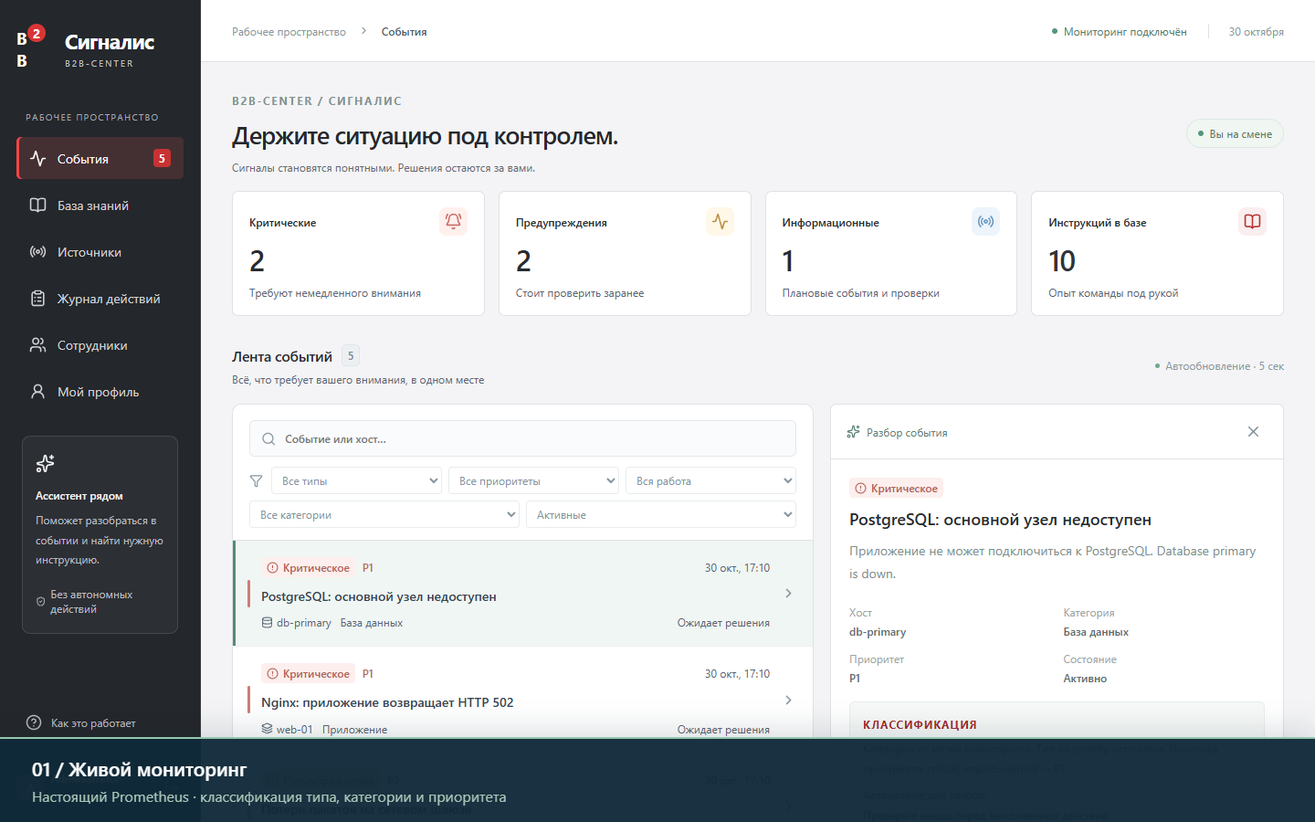
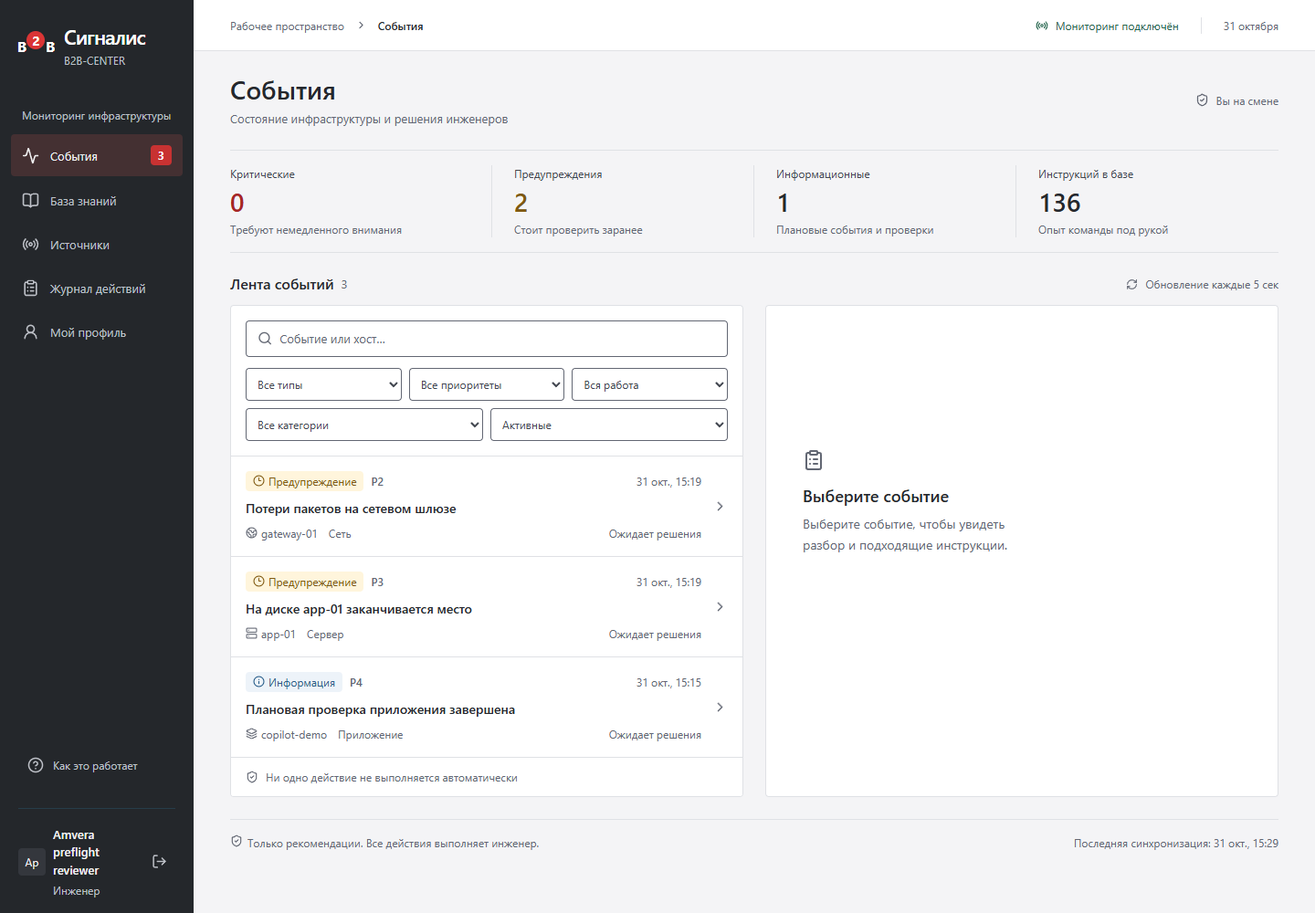
Refresh case 8 submission checklist and verified cloud evidence

diff --git a/docs/submission-verification.md b/docs/submission-verification.md
@@ -1,28 +1,66 @@
-# Проверки комплекта для сдачи — 30 октября 2026
+# Итоговый чек-лист кейса 8 — 31 октября 2026
 
-## Состояние
-Исправлена принудительная SQLite-настройка. Полноценный способ запуска — docker compose.
-Документация жюри: reviewer-guide.md. Публичный Amvera-стенд не прошёл повторную проверку из-за отказа шлюза доступа к cloud.amvera.ru; не выдаётся за подтверждённое рабочее демо.
+## Вердикт
+Можно отправлять на проверку как демонстрационное решение кейса 8. Блокирующая функциональная ошибка в проверенных сценариях не выявлена. Это не промышленный сервис с доказанной устойчивостью под произвольной нагрузкой.
 
-## Выполнено
-- 62 backend-тест прошёл после исправлений, включая PostgreSQL, pgvector, импорт и выбор DATABASE_URL.
-- TypeScript и production-сборка интерфейса проходят.
-- Основной авторский набор: 48 событий, точность тройки severity/category/priority — 100%.
-- Дополнительный review-regression.json: 12 новых формулировок без меток, 100%. Оба набора авторские, не независимый benchmark организаторов.
-- Финальный прогон интерфейса: 10 браузерных тестов прошли в Edge за 52,5 сек на отдельном стенде.
-- Проверена синтаксическая корректность PowerShell-скрипта запуска, sh-скрипта облачных ролей и Compose-конфигурации готовых образов.
-- GitHub CI для первого коммита подготовки 58fcada: success, https://github.com/Roman4588/B2B_8case/actions/runs/41038304275.
-- Чистый checkout F:/B2B_8case-review запущен как отдельный Compose-проект case8-review на 8081 с новыми PostgreSQL/Redis/uploads; использован существующий кэш модели и собранные образы. Это проверка новой БД и чистых исходников, а не полностью холодная загрузка на другом компьютере.
+Код проверенного публичного стенда и GitHub на начало аудита: `05b4ead68c079b5683a1e8cbbfacbdd04f611776`. Последующие изменения этого аудита затрагивают документацию и материалы сдачи, не runtime. Публичный адрес: https://b2b-madaminchyk.mia0.amvera.tech/.
 
-## Ограничения
-Нагрузочный тест и независимый аудит безопасности не выполнены. Тариф и полная конфигурация Amvera не изменялись. Первоначальный аудит readiness-review-2026-10-30.md сохранён как исторический: его замечание об отсутствии исправления в GitHub относится к состоянию до 58fcada.
-## Финальный прогон
-HTTP smoke на отдельном стенде прошёл: вход, настоящее событие с рекомендацией, ручное подтверждение и идемпотентность, PDF на 60 страниц, выход. Приём файла — 0,132 сек; полный цикл ожидания — 22,355 сек. Это локальные измерения, не SLA.
+## Откуда взяты требования
+«Презентация - мероприятие ТПУ.pptx»: слайды 30–32 — кейс 8, слайды 5–7 — общий стек и результат сдачи. Слайд 28 с подписью «Задача 8» описывает аудит безопасности внутри раздела кейса 7; он не подменяет требования ассистента дежурного.
+«Презентация на 1 октября.pptx» задаёт организационный контекст и командную защиту; техническая матрица ниже основана на презентации мероприятия.
 
-Новое видео записано на отдельной базе: 231,44 сек (3:51), H.264 + AAC, 4 399 549 байт. Проверены контрольные кадры вступления, события, рекомендаций, аудита, источников и восстановления. Сценарий записи больше не использует устаревшую авторизацию одним паролем.
+## Семь критериев кейса 8
+| № | Критерий презентации | Результат и доказательство |
+|---|---|---|
+| 1 | Zabbix или Prometheus через API | Выполнено. Настоящий Prometheus получает метрики exporter и отдаёт alerts. Публичный HTTP smoke получил реальное событие и рекомендации; документы развёртывания содержат проверку смены normal/outage и обновления last_success. Второй мониторинг не обязателен. |
+| 2 | Тип, категория, приоритет, точность ≥90% | 100% тройки на повторно проверенных 48 авторских примерах; отдельные 12 авторских формулировок ранее дали 100%. Обучение и проверочный набор разделены. Независимая точность на неизвестном наборе организаторов не измерена — это ограничение доказательства метрики. |
+| 3 | База знаний, загрузка «Если X → Y» | Выполнено. JSON/MD/TXT/PDF/DOCX, ручная форма и редактирование. Импорт 60-страничного PDF прошёл сейчас; цельный Markdown и JSON проверены в облачной приёмке и тестах. Пример: examples/reviewer-queue.json. |
+| 4 | Подбор релевантной инструкции | Выполнено. Реальные многоязычные эмбеддинги и pgvector. Публичный браузерный тест создания и поиска прошёл; сценарий «Маяк» проверен ранее через публичный API. Сходство не выдаётся за вероятность правильности. |
+| 5 | Дашборд с событиями и рекомендациями | Выполнено. Публичный браузерный тест открывает событие PostgreSQL, источник инструкции и ручную историю. Проверены фильтры и доступность действий при длинных рекомендациях и на небольшом экране. |
+| 6 | Ручное подтверждение, без автономных действий | Выполнено. HTTP smoke подтвердил принятие и идемпотентность; история и ручные действия покрыты CI/браузером. Исполнительного слоя инфраструктурных команд нет. Учебный переключатель меняет только синтетические метрики exporter. |
+| 7 | Запуск docker-compose up --build | Выполнено для исходного Compose; современное написание docker compose up --build. Последний GitHub CI запустил стек на новом Linux runner, проверил настоящие PostgreSQL/pgvector и полный сценарий. Облачный standalone — отдельная упаковка того же приложения. |
 
-Удалена подстановка фиктивных Prometheus-событий при недоступном exporter. Регрессионный тест сначала воспроизвёл HTTP 200 вместо ошибки, после исправления проверяет HTTP 503 без создания состояния мониторинга.
+## Общие требования слайдов 5–7
+| Требование | Итог |
+|---|---|
+| React/Vue/Next, SPA и адаптивность | React + TypeScript + Vite. Браузерные проверки мобильной ширины, диалогов и прокрутки прошли. |
+| Python/Node, REST API | FastAPI; /api/docs и /api/openapi.json. API сценарий прошёл. |
+| Асинхронная обработка тяжёлых задач | Celery + Redis. Импорт возвращает HTTP 202 и выполняется worker. |
+| PostgreSQL для профилей/логов/метаданных | PostgreSQL 17, постоянный /data в Amvera. Сохранность после перезапуска проверена отдельной облачной приёмкой. |
+| Векторная БД и эмбеддинги | pgvector и локальная модель FastEmbed/ONNX. |
+| Готовый Docker-пакет | Compose, Dockerfile backend/frontend и Amvera standalone. Готовые образы публикуются релизным workflow только после полного CI. |
+| README с инструкцией и API-примерами | Есть. Публичная ссылка и рабочий общий demo-admin находятся в начале README; локальный запуск отдельным разделом. |
+| Документ >50 страниц без 504 | Сейчас: PDF 60 страниц, приём 0,404 сек, обработка 7,423 сек, succeeded. Без удержания соединения на всё время обработки. |
+| Интерфейс без технических знаний | Веб-вход без Docker, подсказки, drag-and-drop, статусы заданий, поиск, подтверждение удаления. Браузерные сценарии прошли. |
+| Решение в репозитории | GitHub main содержит исходники, миграции, тесты, датасеты, примеры, документацию и видео. |
+| Видео с командой, техническим решением и приложением ≤5 минут | signalis-presentation.mp4, 289,9 сек (4:49,9), H.264 + AAC. Контрольные кадры показывают пять участников, классификацию, рекомендации, ручной журнал и мониторинг. Проверка содержания по контрольным кадрам не равна независимой оценке качества всей презентации. |
 
-Изоляция: пользовательские тома не удалялись. Запись и финальные браузерные/HTTP-проверки работали в case8-review с отдельной БД. Кэш модели общий. GitHub CI обеспечивает дополнительный запуск на новом Linux runner.
+## Дополнительные пользовательские проверки
+- Drag-and-drop документа, привычное синее выделение, отсутствие лишнего фокуса после клика, сохранённая навигация Tab — прошли.
+- Общий подвал с рекомендациями отсутствует в профиле/базе знаний, остаётся на странице событий — прошёл.
+- Удаление инструкции и целого импорта, подтверждение/отмена, запрет удаления работающего импорта, защита пути, аудит и удаление векторов — API и браузерные регрессии прошли. Реальные тестовые удаления проверены после деплоя, прежние данные сохранены.
+- Вход инженера, 403 на управление сотрудниками; административный вход — подтверждены ранее в этой сессии. Пароли общих учётных записей не менялись.
 
-Релиз v1.0.0 опубликован: https://github.com/Roman4588/B2B_8case/releases/tag/v1.0.0. Полная проверка финального коммита 63dbdde в GitHub CI завершилась success; публикация образов — success. 30 октября анонимные запросы к манифестам backend, frontend и demo-exporter v1.0.0 вернули HTTP 200, без Docker/GitHub-учётных данных. В другом чате подтверждён доступ к кабинету Amvera, но не полный облачный деплой.
+## Фактический новый прогон
+Публичный HTTP smoke: login, real_alert_and_recommendations, manual_confirmation_and_idempotence, sixty_page_pdf_background_import, logout — true. Результат: final-case8-http.json. Созданный этим прогоном PDF и одна E2E-инструкция после проверки удалены по их конкретным ID; прочие инструкции не удалялись. Учебный сценарий восстановлен в warning, как до проверки. Ручные записи проверки в аудите сохранены.
+
+Браузер: 25 сценариев; в первом прогоне 24 passed, один тайм-аут page.goto до входа при загрузке JS/CSS. Отдельный повтор того же мобильного сценария прошёл за 4,3 сек. Итого все сценарии проверены успешно, но первый запуск не был полностью зелёным. По trace HTML вернул 200; запросы JS/CSS не завершились до тайм-аута. Причина этого единичного сетевого эпизода не установлена, исправление приложения наугад не вносилось.
+
+Последний CI исходного runtime: success, https://github.com/Roman4588/B2B_8case/actions/runs/41183658276. Он включает сборку и старт Compose, backend/pgvector, классификацию, большой PDF и браузер. Предыдущий локальный backend-прогон после удаления: 66 passed, 10 integration skipped; не подменяет интеграционный CI.
+
+## Что найдено и исправлено в этом аудите
+1. Активный отчёт submission-verification.md ошибочно продолжал говорить, что облако не проверено. Исторический текст перенесён в submission-verification-2026-10-30.md, текущий отчёт заменён этим чек-листом.
+2. submission-results.json содержал старое видео 3:51, cloud_verified=false и прежние измерения. Обновлён по текущим проверкам с явными ограничениями.
+3. Руководство жюри называло Compose основным способом проверки вопреки готовому публичному сайту. Теперь первым указан сайт, Compose оставлен для воспроизведения.
+4. Скриншот README отставал от текущего интерфейса. Заменён снимком действующего стенда.
+5. Релиз v1.0.0 отставал от cloud-упаковки и нового видео. Для сдачи подготовлен v1.1.0; workflow проверяет код перед публикацией. Исторический v1.0.0 не удаляется и не перезаписывается.
+
+## Что ещё можно улучшить, но это не блокирует сдачу
+- Независимый датасет и измерение качества на событиях без меток, неизвестных формулировках и нерелевантных запросах.
+- Нагрузочный прогон и длительное наблюдение памяти: у тарифа 1 ГБ небольшой запас. Одиночный проверочный сценарий прошёл; SLA/HA не обещаются.
+- Большая учебная база содержит прежние проверочные документы. Чужие записи автоматически не очищались. На защите используйте осмысленный пример «Маяк» и поиск.
+- Публичный общий admin даёт всем возможность менять учебные данные. Это выбранный владельцем режим демонстрации; использовать его для реальных персональных/рабочих данных нельзя. Индивидуальные доступы после проверки — последующее улучшение.
+- История Prometheus временная, а данные приложения постоянные. Это явно описано в облачном отчёте.
+
+## Что отправлять
+Ссылку на GitHub main или актуальный релиз v1.1.0. В начале README есть публичный сайт, demo-admin, тестовый документ и видео. Не отправляйте старый v1.0.0 как единственный комплект. Перед защитой откройте сайт и убедитесь, что тариф/баланс поддерживают работу стенда.

diff --git a/docs/submission-verification-2026-10-30.md b/docs/submission-verification-2026-10-30.md
@@ -1,0 +1,30 @@
+Исторический отчёт. Актуальное состояние: [submission-verification.md](submission-verification.md).
+
+# Проверки комплекта для сдачи — 30 октября 2026
+
+## Состояние
+Исправлена принудительная SQLite-настройка. Полноценный способ запуска — docker compose.
+Документация жюри: reviewer-guide.md. Публичный Amvera-стенд не прошёл повторную проверку из-за отказа шлюза доступа к cloud.amvera.ru; не выдаётся за подтверждённое рабочее демо.
+
+## Выполнено
+- 62 backend-тест прошёл после исправлений, включая PostgreSQL, pgvector, импорт и выбор DATABASE_URL.
+- TypeScript и production-сборка интерфейса проходят.
+- Основной авторский набор: 48 событий, точность тройки severity/category/priority — 100%.
+- Дополнительный review-regression.json: 12 новых формулировок без меток, 100%. Оба набора авторские, не независимый benchmark организаторов.
+- Финальный прогон интерфейса: 10 браузерных тестов прошли в Edge за 52,5 сек на отдельном стенде.
+- Проверена синтаксическая корректность PowerShell-скрипта запуска, sh-скрипта облачных ролей и Compose-конфигурации готовых образов.
+- GitHub CI для первого коммита подготовки 58fcada: success, https://github.com/Roman4588/B2B_8case/actions/runs/41038304275.
+- Чистый checkout F:/B2B_8case-review запущен как отдельный Compose-проект case8-review на 8081 с новыми PostgreSQL/Redis/uploads; использован существующий кэш модели и собранные образы. Это проверка новой БД и чистых исходников, а не полностью холодная загрузка на другом компьютере.
+
+## Ограничения
+Нагрузочный тест и независимый аудит безопасности не выполнены. Тариф и полная конфигурация Amvera не изменялись. Первоначальный аудит readiness-review-2026-10-30.md сохранён как исторический: его замечание об отсутствии исправления в GitHub относится к состоянию до 58fcada.
+## Финальный прогон
+HTTP smoke на отдельном стенде прошёл: вход, настоящее событие с рекомендацией, ручное подтверждение и идемпотентность, PDF на 60 страниц, выход. Приём файла — 0,132 сек; полный цикл ожидания — 22,355 сек. Это локальные измерения, не SLA.
+
+Новое видео записано на отдельной базе: 231,44 сек (3:51), H.264 + AAC, 4 399 549 байт. Проверены контрольные кадры вступления, события, рекомендаций, аудита, источников и восстановления. Сценарий записи больше не использует устаревшую авторизацию одним паролем.
+
+Удалена подстановка фиктивных Prometheus-событий при недоступном exporter. Регрессионный тест сначала воспроизвёл HTTP 200 вместо ошибки, после исправления проверяет HTTP 503 без создания состояния мониторинга.
+
+Изоляция: пользовательские тома не удалялись. Запись и финальные браузерные/HTTP-проверки работали в case8-review с отдельной БД. Кэш модели общий. GitHub CI обеспечивает дополнительный запуск на новом Linux runner.
+
+Релиз v1.0.0 опубликован: https://github.com/Roman4588/B2B_8case/releases/tag/v1.0.0. Полная проверка финального коммита 63dbdde в GitHub CI завершилась success; публикация образов — success. 30 октября анонимные запросы к манифестам backend, frontend и demo-exporter v1.0.0 вернули HTTP 200, без Docker/GitHub-учётных данных. В другом чате подтверждён доступ к кабинету Amvera, но не полный облачный деплой.

diff --git a/docs/release-notes.md b/docs/release-notes.md
@@ -1,1 +1,3 @@
-Кейс 8: воспроизводимый PostgreSQL/pgvector стенд, исправленный импорт цельных Markdown-регламентов, проверка готовности при запуске Windows, руководство жюри и пример JSON. Проверки и ограничения: docs/submission-verification.md. Начните с README и docs/reviewer-guide.md. Cloud deployment status is documented separately; do not infer it from image publication.
+Актуальный комплект кейса 8: публичный стенд Amvera, standalone-упаковка PostgreSQL/pgvector/Redis/Prometheus, новый интерфейс, видео команды 4:49,9 и полный чек-лист презентации. Добавлены drag-and-drop, синее выделение, корректный фокус, удаление инструкций/импорта с подтверждением и аудитом, доступные ручные действия при длинных рекомендациях.
+
+Начните с README: там ссылка на сайт и согласованный владельцем публичный демонстрационный admin. Проверка: docs/reviewer-guide.md. Полные результаты и ограничения: docs/submission-verification.md. Набор классификации авторский; промышленная нагрузка/SLA не заявляются. История v1.0.0 сохранена, этот релиз содержит актуальное видео и облачную упаковку.

diff --git a/docs/reviewer-guide.md b/docs/reviewer-guide.md
@@ -11,7 +11,7 @@
 ## Что сдаётся
 Кейс 8: ИИ-ассистент дежурного. Интеграция с одним Prometheus удовлетворяет требованию «Zabbix или Prometheus». Учебный exporter меняет синтетические метрики, настоящий Prometheus формирует alerts, приложение читает их через API.
 
-Видео команды: [видеопрезентация, 4:49,9](media/signalis-presentation.mp4), [субтитры](media/signalis-presentation.srt). Метрики и границы проверки: submission-verification.md. Основной способ проверки — полный Compose; состояние публичного стенда указано в README.
+Видео команды: [видеопрезентация, 4:49,9](media/signalis-presentation.mp4), [субтитры](media/signalis-presentation.srt). Метрики и границы проверки: submission-verification.md. Основной способ проверки — публичный сайт и аккаунт из README. Полный Compose предназначен для локального воспроизведения.
 
 На новом компьютере модель скачивается один раз. Размещение на localhost доступно только с этого компьютера; это не публичная ссылка.
 

diff --git a/README.md b/README.md
@@ -1,6 +1,6 @@
 # Сигналис · ИИ-Ассистент Дежурного
 
-Готовое локальное приложение для **кейса 8**: получает события настоящего Prometheus,
+Приложение с публичным демонстрационным стендом и локальным запуском для **кейса 8**: получает события настоящего Prometheus,
 определяет тип, категорию и приоритет, находит подходящие регламенты и помогает инженеру
 принять решение. Приложение **не выполняет команды на инфраструктуре**.
 
@@ -11,6 +11,8 @@
 данные и рабочие сценарии приложения остаются отдельными.
 
 ![Рабочее пространство](docs/media/dashboard.png)
+
+**[Актуальный релиз v1.1.0](https://github.com/Roman4588/B2B_8case/releases/tag/v1.1.0)** · **[Полный чек-лист кейса 8](docs/submission-verification.md)**
 
 ## Для проверяющих: вход без установки
 
